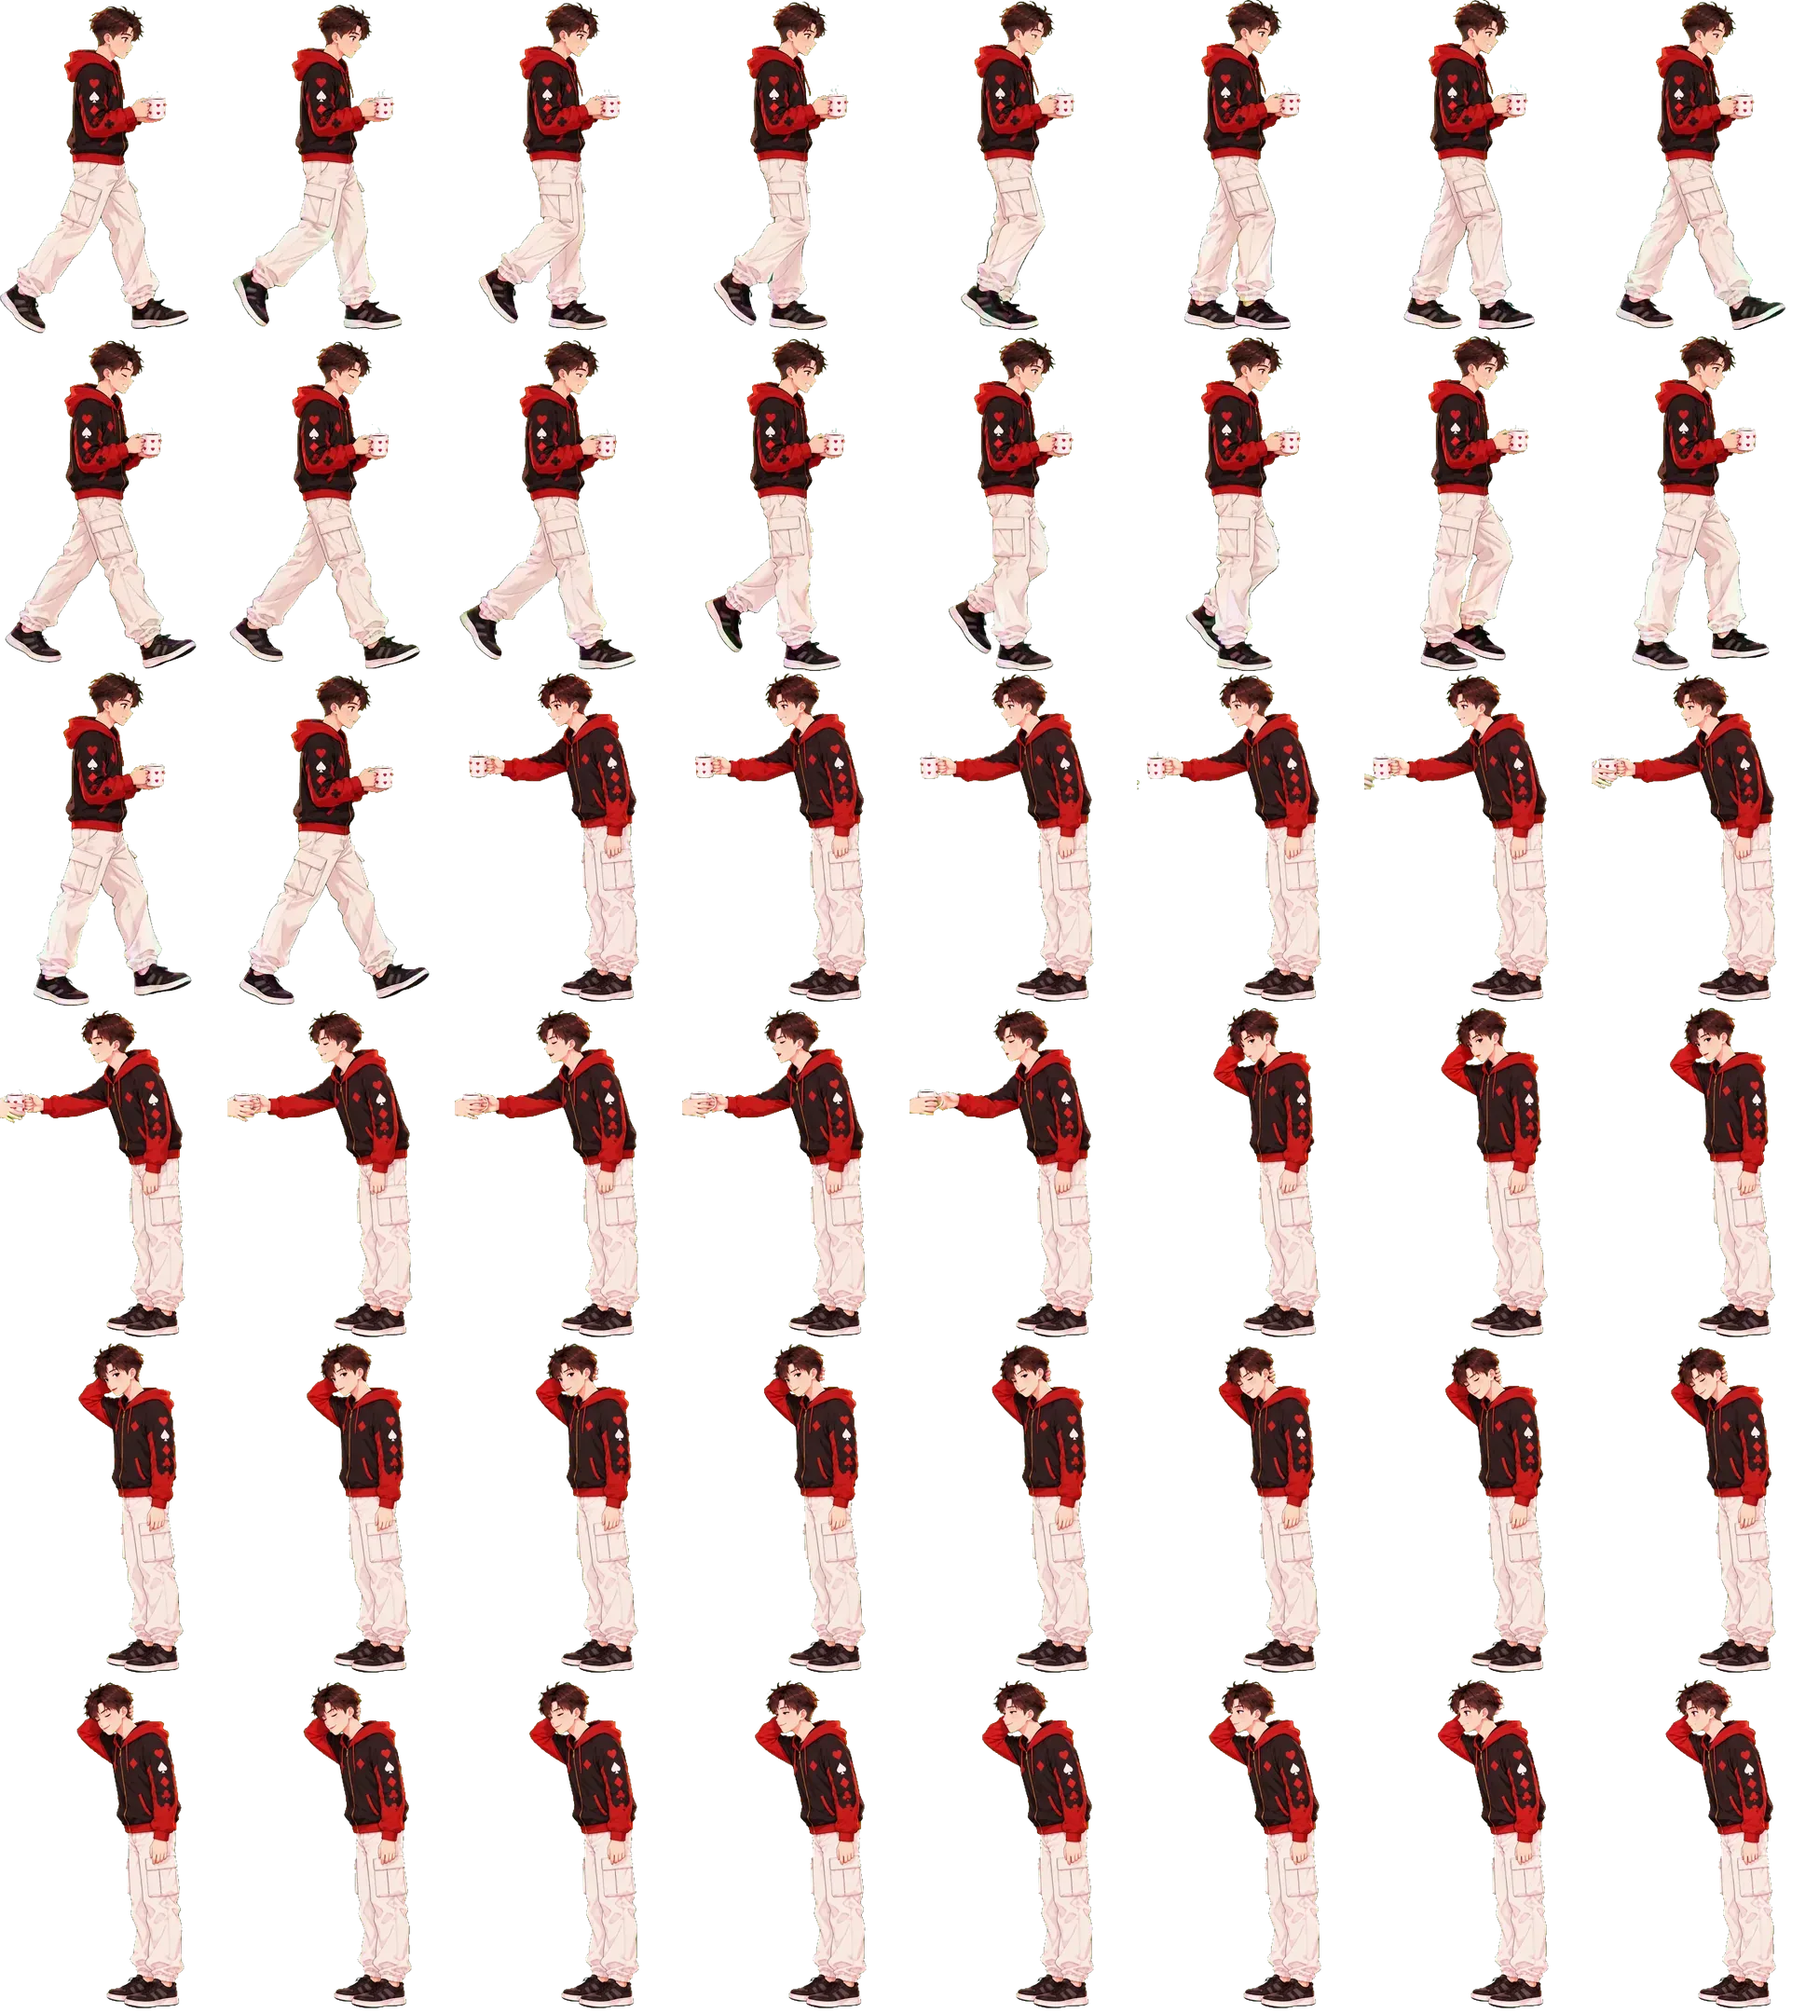
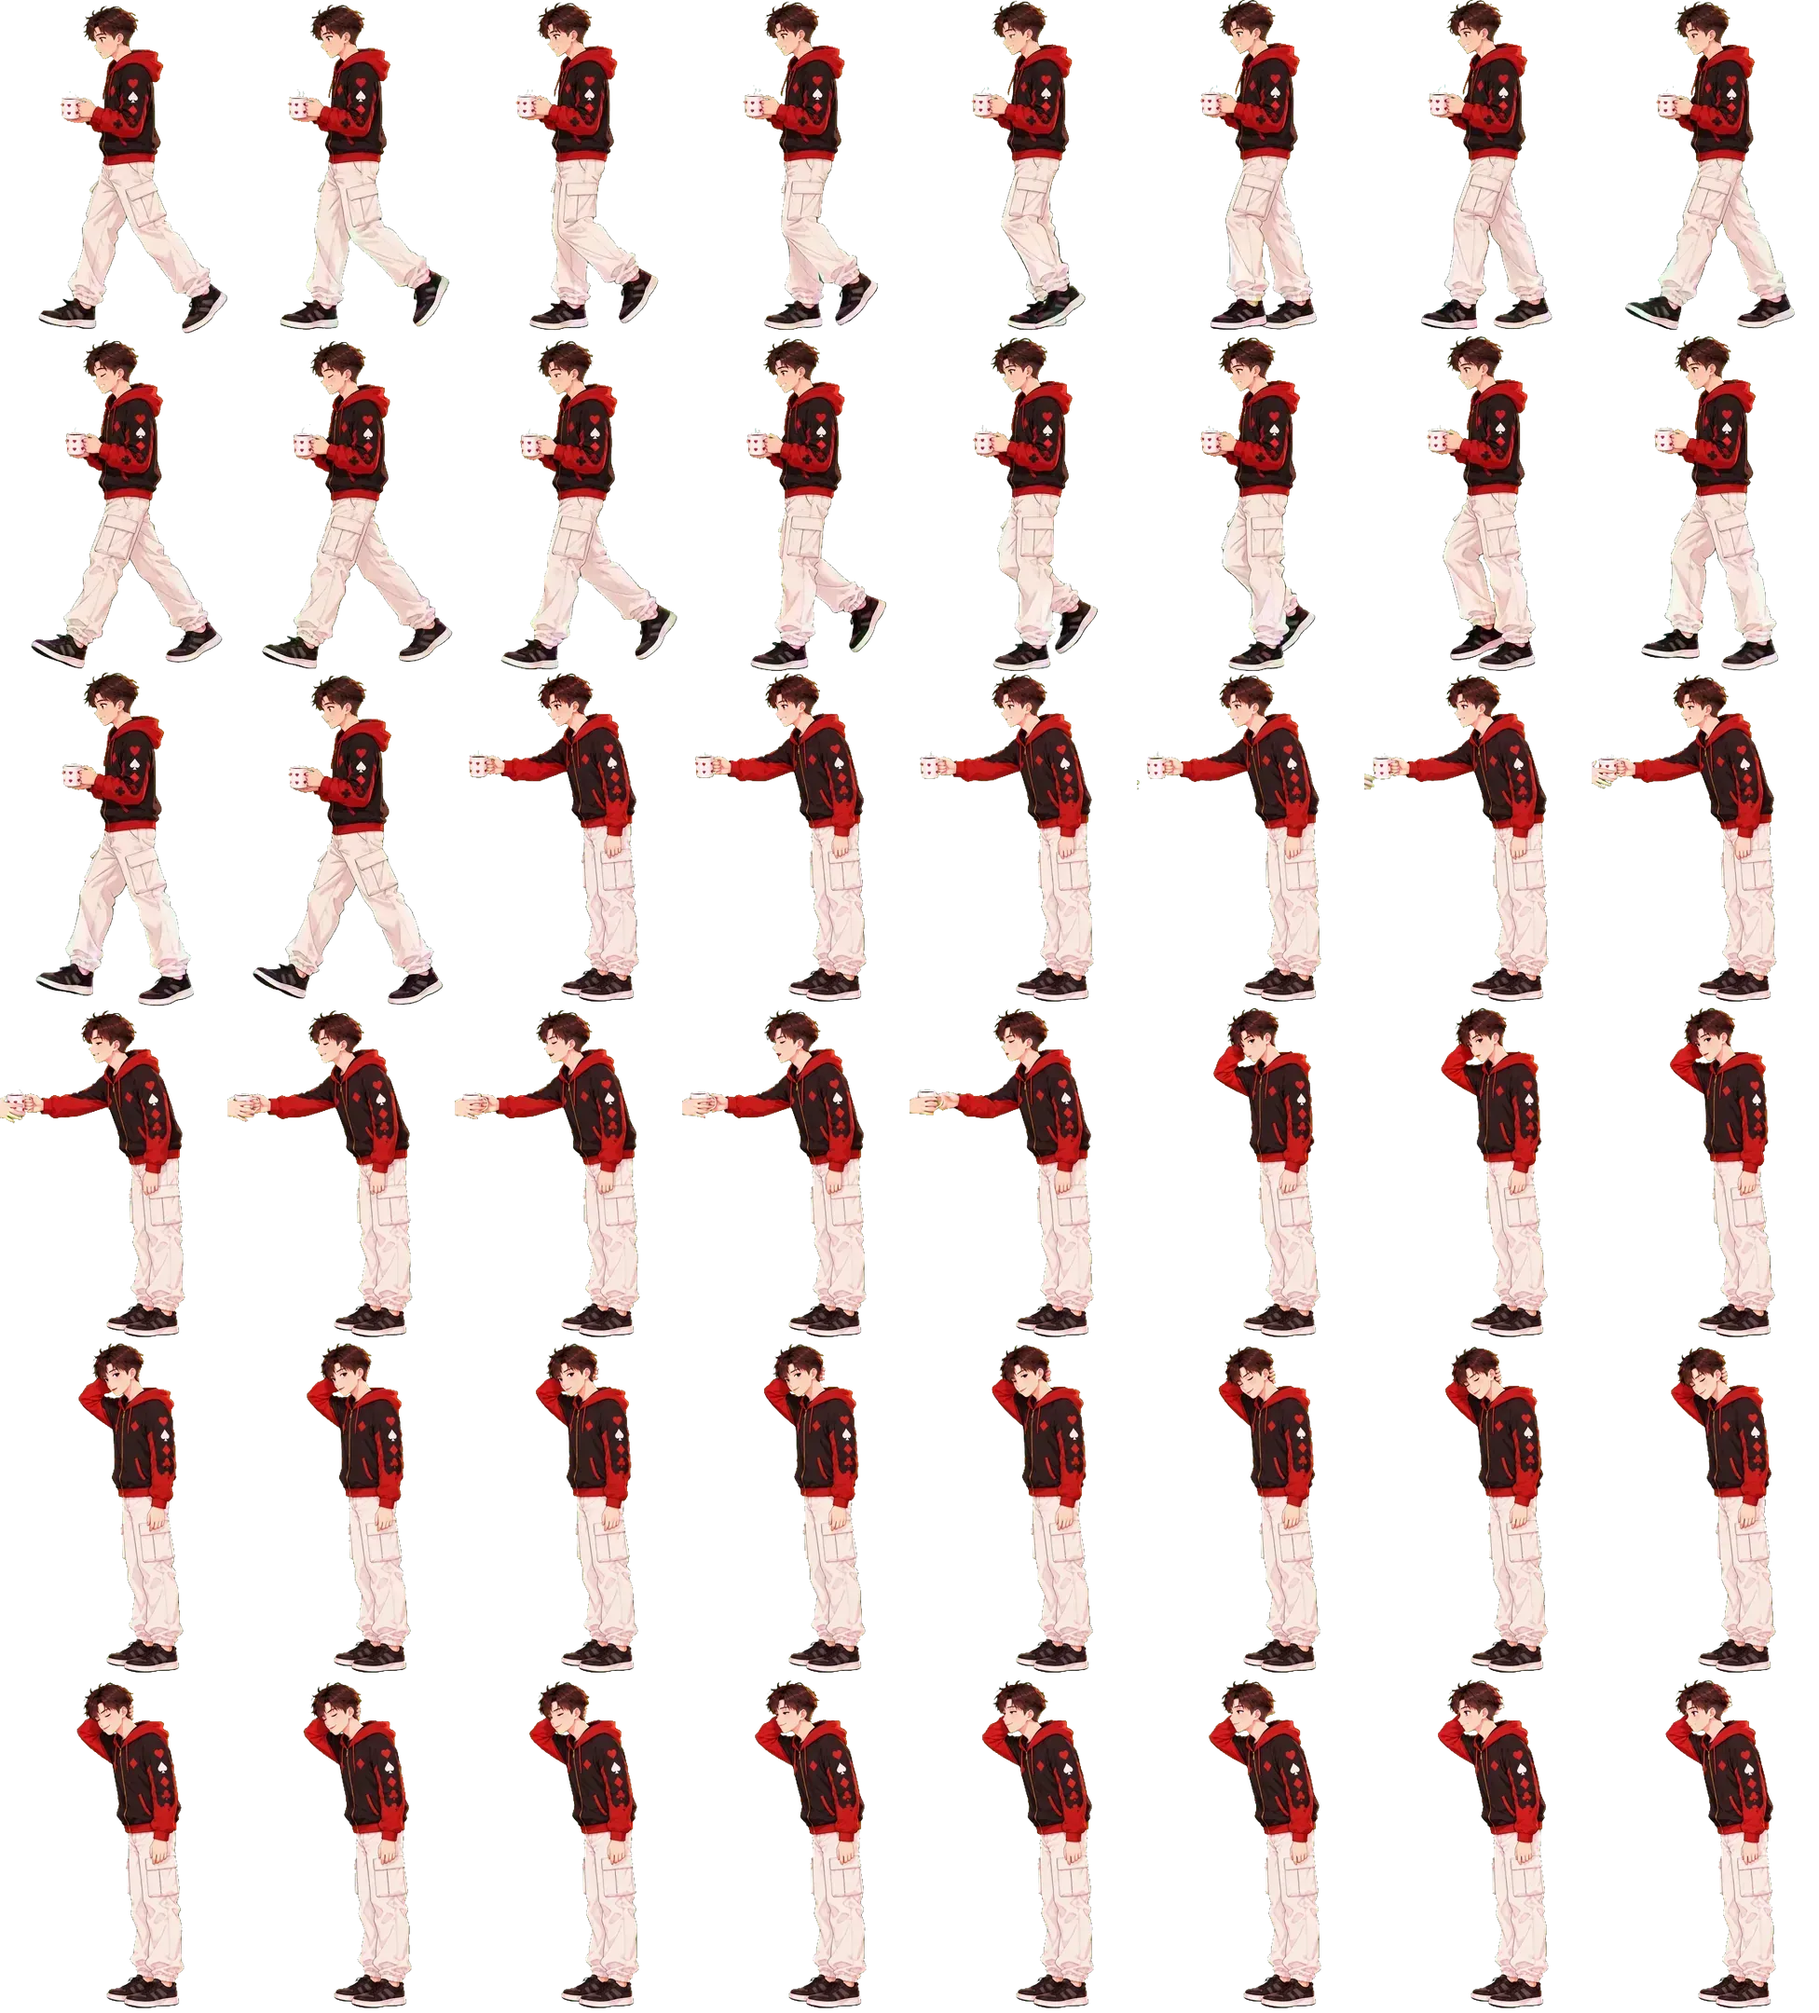
Libro: aula animada con Wan y escenario más bajo; capitulares junto a su texto; Coen entra de frente; saltos de verdad; el hada se aparta de las apps; la pareja recibe las bolsas; transformación de Ari en chica mágica con Wan

diff --git a/cuento.js b/cuento.js
@@ -474,9 +474,11 @@
         { espera: 'tienda-boleta', cierraApp: true, ms: 900 },                                                                  // cuando se entrega la boleta…
         // …Rancek les entrega las bolsas y cierra la tienda para ir con ellos
         { texto: { titulo: 'Rancek:', texto: '«¡Aquí tienen sus bolsas! Gracias por su compra ✦»' }, nombre: 'mago', clase: 'tras-mostrador saluda', fx: [{ tipo: 'destello', x: 58, ancho: 10, y: 12, ms: 900 }, { tipo: 'destello', x: 50, ancho: 16, y: 6, ms: 1100, tras: 500 }], ms: 900, pausa: 0 },
+        { nombre: 'pareja-r', actor: 'pareja-bolsas', x: 48.2, alto: 18.4, delante: true, reemplaza: 'pareja', sigue: true, de: 0, a: 1, ms: 4100, junto: true },   // Ari y Coen reciben una bolsa cada uno
         { nombre: 'mago-e', actor: 'rancek-entrega', x: 76, alto: 17, clase: 'tras-mostrador', reemplaza: 'mago', sigue: true, de: 0, a: 1, ms: 2600, pausa: 0 },
         { nombre: 'mago', actor: 'rancek-atiende', x: 76, alto: 17, clase: 'tras-mostrador', reemplaza: 'mago-e', sigue: true, bucle: [0, 1], cicloMs: 2400, ms: 0, pausa: 0 },   // las bolsas pasan de sus manos…
-        { nombre: 'pareja-b', actor: 'paseo', camina: [0, 0], x: 46, alto: 17, delante: true, reemplaza: 'pareja', sigue: true, ms: 1600 },   // …a las de ellos
+        { ms: 1500 },
+        { nombre: 'pareja-b', actor: 'paseo', camina: [0, 0], x: 46, alto: 17, delante: true, reemplaza: 'pareja-r', sigue: true, ms: 1600 },   // …a las de ellos
         // Rancek sale de detrás del mostrador caminando y se pone delante
         { texto: { titulo: 'Rancek:', texto: '«¡Esperen! Cierro la tienda… ¡yo también voy!»' }, nombre: 'rancek-c', actor: 'rancek-casual-anda', camina: [0, 1], cicloMs: 1000, x: 76, alto: 17, clase: 'tras-mostrador', reemplaza: 'mago', sigue: true, ruta: [[0, 76], [1, 88]], ms: 2000, junto: true },
         { ms: 700 },
@@ -495,7 +497,7 @@
         { nombre: 'vitrina', img: 'vitrina.webp', x: 52, alto: 19, fila: 'medio', efecto: 'brilla', ms: 1800 },
         { nombre: 'ari', actor: 'ari-casual', x: 28, alto: 16, delante: true, de: 0, a: 1, ms: 2600, pausa: 300 },                       // Ari llega como clienta…
         { nombre: 'coen', actor: 'coen-vii', x: 76, alto: 17, delante: true, de: 0, a: 1, ms: 3000 },                     // …y Coen la acompaña
-        { nombre: 'ari', efecto: 'salta', ms: 1400 },
+        { nombre: 'ari', efecto: 'salto', ms: 2200 },
         { app: true, ms: 400 }
       ] }
     ] },
@@ -539,18 +541,17 @@
       { fondo: 'fondo-cima.webp', suelo: 'suelo-cima.webp', titulo: 'No es el fin…', texto: '…es solo el inicio.', pasos: [
         { nombre: 'ari', actor: 'baculo-anim', x: 50, alto: 17, efecto: 'brilla', ms: 2600, bucle: [0, 1], cicloMs: 3000,
           texto: { titulo: 'A pesar de los obstáculos…', texto: 'siempre debes alcanzar tu sueño.' } },
-        // Ari se ilumina y se transforma en el hada…
-        { nombre: 'ari', clase: 'transforma', ms: 1500, pausa: 0 },
-        { nombre: 'hada', actor: 'hada-vuelo', x: 50, alto: 19, pj: false, clase: 'hada-final', reemplaza: 'ari', sigue: true, bucle: [0, 1], cicloMs: 1100, fx: { tipo: 'destello', x: 50, ancho: 22, y: 8, ms: 1300 }, ms: 1800, pausa: 0 },
-        // …lanza su hechizo y la luz cubre todo
-        { nombre: 'hada-h', actor: 'hada-hechizo', x: 50, alto: 19, pj: false, clase: 'hada-final', reemplaza: 'hada', sigue: true, de: 0, a: 1, ms: 900, pausa: 0 },
+        // Ari se transforma como una chica mágica: cintas de luz la envuelven y queda con el traje y las alas del hada
+        { nombre: 'ari-t', actor: 'transforma-anim', x: 50, alto: 19, pj: false, clase: 'hada-final', reemplaza: 'ari', sigue: true, de: 0, a: 2, ms: 5200, pausa: 300,
+          fx: [{ tipo: 'destello', x: 50, ancho: 26, y: 6, ms: 1400 }, { tipo: 'destello', x: 50, ancho: 30, y: 10, ms: 1300, tras: 3800 }] },
+        // …y con su varita lanza el hechizo: la luz cubre todo
         { evento: 'cuento-dibuja-mundo', ms: 400 }
       ] }
     ] },
     logros: { carpeta: 'logros/', hitos: [
       { fondo: 'fondo-podio.webp', suelo: 'suelo-podio.webp', central: 'Después de tantas noches de código, llegó su recompensa: en junio de 2026 terminó el curso Desarrollo de Aplicaciones Full Stack Java, 480 horas de SENCE y Talento Digital. Su medalla es digital y cualquiera puede verificarla. Pero Ari nunca deja de aprender: hoy estudia el Certificado de Análisis de Datos de Google, con cinco cursos ya aprobados.', titulo: 'Logro desbloqueado', texto: 'Un reconocimiento muy importante para su carrera.', pasos: [
         { nombre: 'ari', actor: 'medalla', x: 50, alto: 16, efecto: 'brilla', ms: 2800, bucle: [0, 1], cicloMs: 3000 },                       // Ari levanta su medalla en el podio
-        { nombre: 'ari', efecto: 'salta', ms: 2600 }
+        { nombre: 'ari', efecto: 'salto', ms: 2400 }   // salta de alegría con su medalla
       ] },
       { fondo: 'fondo-stream.webp', suelo: 'suelo-stream.webp', central: 'Y cuando caía la noche, encendía la cámara junto a Coen. En ArianesDCoen jugaban, reían y compartían sus aventuras con una pequeña comunidad que los acompañaba en cada partida.', titulo: '¡En vivo!', texto: 'El público animaba con corazones y barras de luz.', pasos: [
         { nombre: 'streamers', actor: 'streamers-anim', x: 50, alto: 15.7, fila: 'medio', ms: 2400, bucle: [0, 1], cicloMs: 3000 },                                                  // Ari y Coen juegan en vivo
@@ -596,7 +597,7 @@
         { actor: 'pla', x: 44, alto: 15, de: 0, a: 1, ms: 4500 }                      // los papeles se vuelven planilla
       ] },
       { fondo: 'fondo-aula.webp', suelo: 'assets/cuento/cap2/g02-suelo.webp', pasos: [
-        { nombre: 'profe', img: 'ari-profe.webp', x: 46, alto: 17, pj: true, efecto: 'brilla', ms: 2600 }      // enseña a los niños de básica
+        { nombre: 'profe', actor: 'aula-anim', x: 46, alto: 19.5, pj: true, bucle: [0, 1], cicloMs: 3100, ms: 3200 }      // enseña a los niños de básica
       ] },
       { fondo: 'fondo-taller3d.webp', suelo: 'suelo-box.webp', pasos: [
         { nombre: 'f1', img: 'foto3d-stitch.webp', x: 20, alto: 12, fila: 'medio', clase: 'rebote', ms: 500, pausa: 200 },

diff --git a/index.html b/index.html
@@ -22,7 +22,7 @@
   <link rel="preconnect" href="https://fonts.googleapis.com"><link rel="preconnect" href="https://fonts.gstatic.com" crossorigin>
   <link rel="stylesheet" href="https://fonts.googleapis.com/css2?family=Cinzel:wght@500;700&family=Mali:wght@400;600;700&family=Cormorant+Garamond:ital,wght@0,500;0,600;1,500&display=swap">
   <link rel="stylesheet" href="styles.css?v=20261002a">
-  <link rel="stylesheet" href="libro.css?v=20261108a">
+  <link rel="stylesheet" href="libro.css?v=20261013a">
   <link rel="stylesheet" href="tema-claro.css?v=20261002a">
   <link rel="stylesheet" href="intro.css?v=20260929f">
   <link rel="stylesheet" href="escenas.css?v=20261108i">
@@ -42,8 +42,8 @@
   <script src="magia.js?v=20261002a" defer></script>
   <script src="fondo-acuarela.js?v=20261104a" defer></script>
   <script src="secciones.js?v=20261017a" defer></script>
-  <script src="libro.js?v=20261013b" defer></script>
-  <script src="cuento.js?v=20261108c" defer></script>
+  <script src="libro.js?v=20261013a" defer></script>
+  <script src="cuento.js?v=20261013a" defer></script>
   <script src="vendor/gsap.min.js" defer></script>
   <script src="vendor/MotionPathPlugin.min.js" defer></script>
   <script src="escenas.js?v=20261108i" defer></script>

diff --git a/libro.css b/libro.css
@@ -2094,3 +2094,12 @@ html.pantalla-corta .cielo-lado li b{font-size:.58rem}html.pantalla-corta .cielo
 
 /* mientras la escena espera la boleta, la caja no se puede subir a mano */
 .app-obligada .colgante-app:not(.arriba) .app-pestana{visibility:hidden}
+
+/* ✦ sobre el cielo el texto va centrado: la letra capitular se queda pegada a su palabra (no flota al borde) */
+.cielo-bloque .cuento .letra{float:none;display:inline-block;margin:0 2px 0 0;font-size:2.3em;line-height:.8;vertical-align:-.12em}
+/* ✦ cuando baja una aplicación (caja, calculadora, juegos, vitrina) el hada de la orilla se aparta para no taparla */
+#hada-escena{transition:opacity .5s}
+body:has(.teatro-app .colgante-app:not(.arriba)) #hada-escena{opacity:0;pointer-events:none}
+/* ✦ salto de verdad: se agacha, salta alto y aterriza (dos veces, y queda quieta) */
+.hito-actor.salto > *{transform-origin:50% 100%;animation:hito-salto 1.05s cubic-bezier(.3,.7,.4,1) 2}
+@keyframes hito-salto{0%{transform:none}14%{transform:translateY(0) scale(1.06,.86)}24%{transform:translateY(-6%) scale(.95,1.08)}50%{transform:translateY(-34%) scale(1)}76%{transform:translateY(0) scale(1.05,.9)}88%{transform:translateY(-3%) scale(.99,1.02)}100%{transform:none}}

diff --git a/libro.js b/libro.js
@@ -418,9 +418,9 @@
     const w = el.offsetWidth, h = el.offsetHeight;
     const r = libro.getBoundingClientRect();
     const nav = $('#libro-nav').getBoundingClientRect();
-    const x = una ? 2 : (r.left > w * .9 ? r.left - w * .9 : 6);
+    const x = una ? 2 : (r.left > w + 16 ? r.left - w - 12 : 6);   // al lado del libro, sin montarse en su borde
     // siempre dentro de la pantalla (con el libro acostado su borde inferior puede quedar más abajo)
-    const y = Math.min(innerHeight - h - 4, una ? innerHeight - h - 4 : (r.left > w * .9 ? r.bottom - h : innerHeight - h - 2));
+    const y = Math.min(innerHeight - h - 4, una ? innerHeight - h - 4 : (r.left > w + 16 ? r.bottom - h : innerHeight - h - 2));
     const m = (el.style.transform.match(/translate\(([-\d.]+)px,\s*([-\d.]+)px/) || [0, x, y]).slice(1).map(Number);
     el.classList.add('vuela');
     volar(el, [m, [m[0] - 40, m[1] - 80], [x + 30, y - 60], [x, y]], 1200).then(() => el.classList.remove('vuela'));
